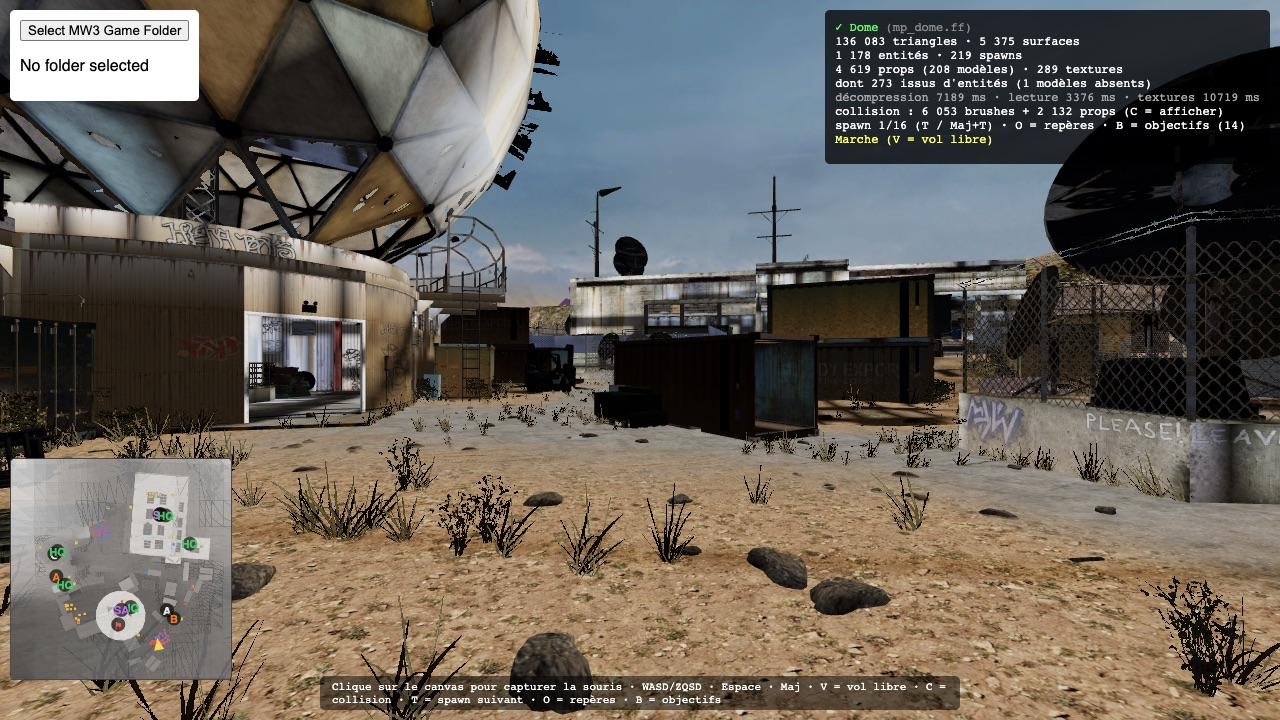
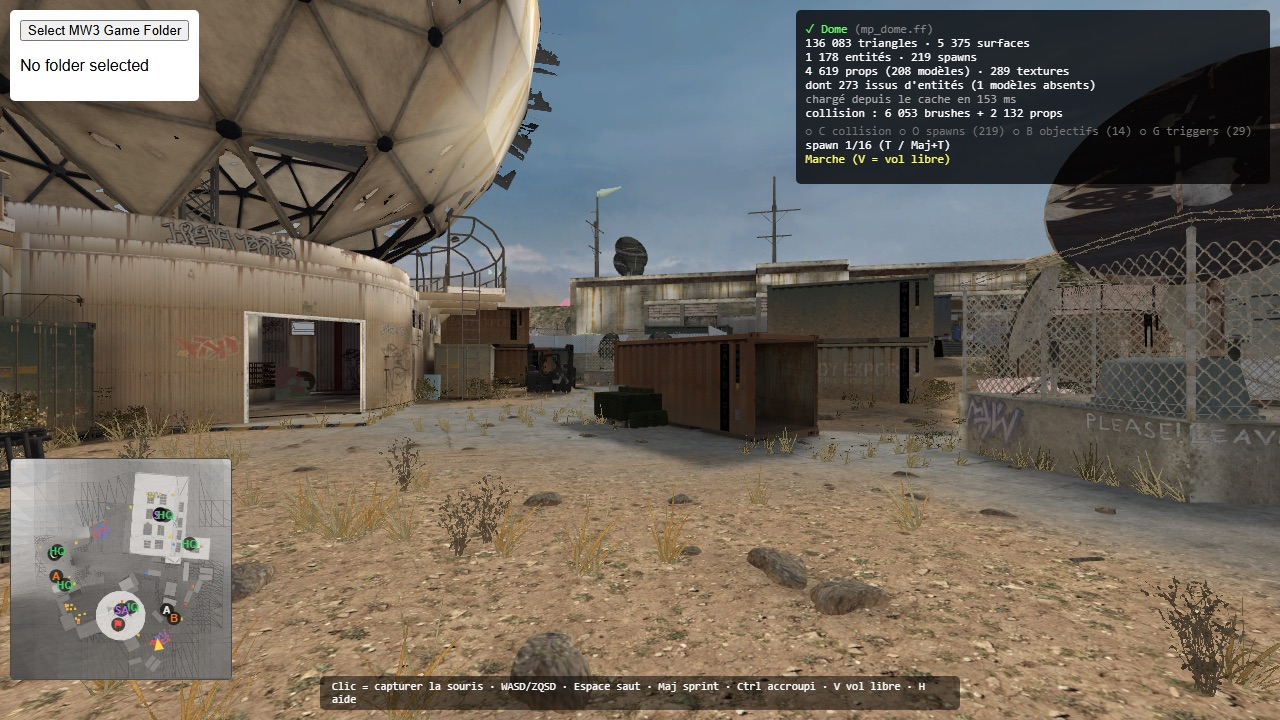
feat(lighting): shade world lightmaps with the engine formula
The IW5 secondary lightmap is two stacked halves (ambient + direction in
alpha) at half the primary's resolution; the old extraction sampled it over
its full height, so ambient came from the wrong part of the atlas. Follow the
decompiled IW4 lm_sun/lp_sun shaders: ambient (B*k + H)^2 plus primary * N.L
* sun color for the world, (2*probe)^2 + sun share for props. Drop R3F's ACES
tone mapping, which the engine does not have.

diff --git a/packages/iw5-core/src/zone/MapExtract.ts b/packages/iw5-core/src/zone/MapExtract.ts
@@ -387,43 +387,40 @@ export function extractSun(zone: LoadedZone): Sun | null {
   return { color: [l.color[0], l.color[1], l.color[2]], direction: [x / n, z / n, -y / n] }
 }
 
-const SKY_TINT = [0.85, 0.97, 1.18] // shadows are lit by the (cool) sky
-const SUN_TINT = [1.08, 1.0, 0.9] // sunlit areas are warm
-const SATURATION = 1.3
-
 /**
- * Combine each lightmap pair into one RGBA image.
- * primary (L8) holds the sun-shadow mask, secondary (A8R8G8B8, half width) the sky/bounce light.
- * The exact engine formula is not reproduced: this is a calibrated approximation, tinted
- * cool in the shadows and with the map's sun color in the light so the result is not greyscale.
+ * Each lightmap pair as one RGBA image at the primary's resolution, following the engine's lightmap shaders
+ * (IW4 `lm_sun_*`, same layout in IW5):
+ * - secondary (A8R8G8B8, half the primary's size) holds two stacked halves H (top) and B (bottom) with the same layout;
+ *   their alphas encode a 2D direction d = (H.a·4.08 − 2.08, B.a·4.0645 − 2.0645), k = 1/√(1 + |d|²);
+ *   ambient = (B.rgb·k + H.rgb)²
+ * - primary (L8) is the sun visibility; the shader adds primary × sat(N·L) × sun color.
+ * Output: rgb = (B.rgb·k + H.rgb) / 2 (the viewer squares 2·rgb), a = primary.
  */
-export function extractLightmaps(zone: LoadedZone, sun: Sun | null = extractSun(zone)): Lightmap[] {
+export function extractLightmaps(zone: LoadedZone): Lightmap[] {
   const gfx = zone.assets.find(a => a.typeName === 'GfxWorld')?.value
   const out: Lightmap[] = []
   const bytesOf = (img: any): Uint8Array | null => {
     const d = img?.texture?.loadDef?.data
     return d ? new Uint8Array(d.buffer, d.byteOffset, d.byteLength) : null
   }
-  const m = sun ? Math.max(...sun.color, 1e-3) : 1
-  const sc = sun ? sun.color.map(c => c / m) : [1, 1, 1]
   for (const lm of gfx?.draw?.lightmaps ?? []) {
     const prim = resolveVal(zone, lm.primary), sec = resolveVal(zone, lm.secondary)
     const pd = bytesOf(prim), sd = bytesOf(sec)
-    if (!pd || !sd) { out.push({ width: 1, height: 1, rgba: new Uint8Array([255, 255, 255, 255]) }); continue }
-    const w = prim.width, h = prim.height, sw = sec.width, sh = sec.height
+    if (!pd || !sd) { out.push({ width: 1, height: 1, rgba: new Uint8Array([128, 128, 128, 255]) }); continue }
+    const w = prim.width, h = prim.height, sw = sec.width, half = sec.height / 2
     const rgba = new Uint8Array(w * h * 4)
     for (let y = 0; y < h; y++) {
+      const sy = Math.min(half - 1, (y * half / h) | 0)
       for (let x = 0; x < w; x++) {
-        const sun01 = pd[y * w + x] / 255
-        const so = ((Math.min(sh - 1, (y * sh / h) | 0)) * sw + Math.min(sw - 1, (x * sw / w) | 0)) * 4
+        const sx = Math.min(sw - 1, (x * sw / w) | 0)
+        const t = (sy * sw + sx) * 4, b = ((sy + half) * sw + sx) * 4 // BGRA
+        const dx = sd[t + 3] / 255 * 4.08 - 2.08, dy = sd[b + 3] / 255 * 4.064516 - 2.064516
+        const k = Math.min(1, 1 / Math.sqrt(1 + dx * dx + dy * dy))
         const o = (y * w + x) * 4
-        const amb = [sd[so + 2], sd[so + 1], sd[so]]
-        let r = 0, g = 0, b = 0
-        const c = [0, 0, 0]
-        for (let k = 0; k < 3; k++) c[k] = 30 + amb[k] * 3.4 * SKY_TINT[k] + sun01 * 140 * sc[k] * SUN_TINT[k]
-        const lum = (c[0] + c[1] + c[2]) / 3
-        r = lum + (c[0] - lum) * SATURATION; g = lum + (c[1] - lum) * SATURATION; b = lum + (c[2] - lum) * SATURATION
-        rgba[o] = Math.max(0, Math.min(255, r)); rgba[o + 1] = Math.max(0, Math.min(255, g)); rgba[o + 2] = Math.max(0, Math.min(255, b)); rgba[o + 3] = 255
+        rgba[o] = (sd[b + 2] * k + sd[t + 2]) / 2
+        rgba[o + 1] = (sd[b + 1] * k + sd[t + 1]) / 2
+        rgba[o + 2] = (sd[b] * k + sd[t]) / 2
+        rgba[o + 3] = pd[y * w + x]
       }
     }
     out.push({ width: w, height: h, rgba })

diff --git a/packages/viewer/src/components/materials.ts b/packages/viewer/src/components/materials.ts
@@ -72,6 +72,28 @@ export function buildMaterials(world: Pick<MapWorld, 'materialImages' | 'materia
   return { map, textures: [...texCache.values(), ...normalCache.values()] }
 }
 
+/**
+ * The engine's lightmap shading (see extractLightmaps): ambient (2·rgb)² plus the sun where the primary (alpha)
+ * says it is visible, with the surface normal.
+ */
+function applyLightmapShading(mat: THREE.Material, sun: MapWorld['sun']) {
+  const dir = new THREE.Vector3(...(sun?.direction ?? [0.3, 0.8, 0.5])).normalize()
+  const color = new THREE.Vector3(...(sun?.color ?? [1, 1, 1]))
+  mat.onBeforeCompile = shader => {
+    shader.uniforms.uSunDir = { value: dir }
+    shader.uniforms.uSunColor = { value: color }
+    shader.vertexShader = shader.vertexShader
+      .replace('#include <common>', '#include <common>\nvarying vec3 vWorldNormal;')
+      .replace('#include <begin_vertex>', '#include <begin_vertex>\nvWorldNormal = normalize(mat3(modelMatrix) * normal);')
+    shader.fragmentShader = shader.fragmentShader
+      .replace('#include <common>', '#include <common>\nvarying vec3 vWorldNormal;\nuniform vec3 uSunDir;\nuniform vec3 uSunColor;')
+      .replace('reflectedLight.indirectDiffuse += lightMapTexel.rgb * lightMapIntensity * RECIPROCAL_PI;',
+        'reflectedLight.indirectDiffuse += 4.0 * lightMapTexel.rgb * lightMapTexel.rgb'
+        + ' + lightMapTexel.a * max(dot(normalize(vWorldNormal), uSunDir), 0.0) * uSunColor;')
+  }
+  mat.customProgramCacheKey = () => 'iw-lightmap'
+}
+
 /** World materials: lightmapped surfaces use an unlit material whose light comes from the lightmap atlas. */
 export function buildWorldMaterials(world: MapWorld): { list: THREE.Material[]; textures: THREE.Texture[] } {
   const lit = buildMaterials(world, world.groups.map(g => g.material))
@@ -95,11 +117,12 @@ export function buildWorldMaterials(world: MapWorld): { list: THREE.Material[]; 
       const src = base as THREE.MeshLambertMaterial
       mat = new THREE.MeshBasicMaterial({
         map: src.map, color: src.map ? 0xffffff : src.color,
-        ...(lm ? { lightMap: lm, lightMapIntensity: Math.PI } : {}),
+        ...(lm ? { lightMap: lm } : {}),
         alphaTest: g.decal ? 0.02 : src.alphaTest, side: src.side,
         // decals are blended over the surface below with the vertex alpha
         ...(g.decal ? { vertexColors: true, transparent: true, depthWrite: false, polygonOffset: true, polygonOffsetFactor: -2, polygonOffsetUnits: -2 } : {}),
       })
+      if (lm) applyLightmapShading(mat, world.sun)
       cache.set(key, mat)
     }
     return mat

diff --git a/packages/viewer/src/components/StaticModels.tsx b/packages/viewer/src/components/StaticModels.tsx
@@ -31,9 +31,6 @@ function makeMesh(geometry: THREE.BufferGeometry, groups: ModelGeometry['groups'
 const lightBuffer = (m: THREE.InstancedMesh) => (m.geometry.getAttribute('aLight0') as THREE.InterleavedBufferAttribute).data
 const lightOf = (m: THREE.InstancedMesh) => lightBuffer(m).array as Float32Array
 
-/** sun term gain (sun color as authored, ~1.2) and overall gain, calibrated against the lightmapped world */
-const SUN_GAIN = 0.55
-const PROP_GAIN = 1.0
 
 /**
  * Light props like the engine's model lighting: ambient cube from the light grid sample of each instance
@@ -41,7 +38,7 @@ const PROP_GAIN = 1.0
  */
 function applyGridLighting(mat: THREE.Material, sun: MapWorld['sun']) {
   const dir = new THREE.Vector3(...(sun?.direction ?? [0.3, 0.8, 0.5])).normalize()
-  const color = new THREE.Vector3(...(sun?.color ?? [1, 1, 1])).multiplyScalar(SUN_GAIN)
+  const color = new THREE.Vector3(...(sun?.color ?? [1, 1, 1]))
   mat.onBeforeCompile = shader => {
     shader.uniforms.uSunDir = { value: dir }
     shader.uniforms.uSunColor = { value: color }
@@ -57,7 +54,8 @@ function applyGridLighting(mat: THREE.Material, sun: MapWorld['sun']) {
         vec3 amb = n2.x * (wn.x > 0.0 ? vLight0.rgb : vLight1.rgb)
                  + n2.y * (wn.y > 0.0 ? vLight2.rgb : vLight3.rgb)
                  + n2.z * (wn.z > 0.0 ? vLight4.rgb : vLight5.rgb);
-        outgoingLight = diffuseColor.rgb * (amb + uSunColor * max(dot(wn, uSunDir), 0.0) * vLight0.w) * ${PROP_GAIN.toFixed(2)};
+        // engine (lp_*_sun shaders): (2·probe)² + sun × sat(N·L) × visible share
+        outgoingLight = diffuseColor.rgb * (4.0 * amb * amb + uSunColor * max(dot(wn, uSunDir), 0.0) * vLight0.w);
         #include <opaque_fragment>`)
   }
   mat.customProgramCacheKey = () => 'grid-lit'

diff --git a/packages/viewer/src/App.tsx b/packages/viewer/src/App.tsx
@@ -188,7 +188,7 @@ function App() {
 
   return (
     <div style={{ width: '100vw', height: '100vh', position: 'relative', overflow: 'hidden', background: '#0b0d10' }}>
-      <Canvas camera={{ position: [0, 3, 5], fov: 75, near: 0.05, far: 6000 }} style={{ width: '100%', height: '100%' }}>
+      <Canvas flat camera={{ position: [0, 3, 5], fov: 75, near: 0.05, far: 6000 }} style={{ width: '100%', height: '100%' }}>
         <color attach="background" args={['#9fb4c7']} />
         {world?.sky && <Sky sky={world.sky} />}
         <fog attach="fog" args={['#9fb4c7', 300, 2500]} />

diff --git a/packages/viewer/src/worker/mapWorker.ts b/packages/viewer/src/worker/mapWorker.ts
@@ -28,7 +28,7 @@ function buildGeometry(zone: LoadedZone, fileName: string, zoneBytes: number, ti
   const { batches: entityModels, missing: missingModels } = extractEntityModels(zone, entities)
   const staticModels = [...worldModels, ...entityModels]
   const sun = extractSun(zone)
-  const lightmaps = extractLightmaps(zone, sun)
+  const lightmaps = extractLightmaps(zone)
   const propLight = computePropLighting(zone.assets.find(a => a.typeName === 'GfxWorld')?.value?.lightGrid, staticModels)
 
   const spawns: SpawnPoint[] = []

diff --git a/packages/viewer/src/worker/cache.ts b/packages/viewer/src/worker/cache.ts
@@ -1,7 +1,7 @@
 // IndexedDB cache of decoded maps: a second load of the same .ff skips decompression, parsing and texture decoding.
 
 /** Bump whenever the extracted data changes shape or content. */
-export const CACHE_VERSION = 9
+export const CACHE_VERSION = 10
 
 const DB = 'mwthree-cache'
 const STORE = 'maps'

diff --git a/docs/04-rendu.md b/docs/04-rendu.md
@@ -26,7 +26,9 @@ Le ciel est la cube map `GfxWorld.skies[0].skyImage` (un `.iwi` contenant 6 face
 
 ### Lightmaps
 
-Le `GfxWorld` contient des atlas d'éclairage précalculé (`draw.lightmaps`) : un masque de lumière du soleil (`primary`, 1 octet/pixel) et une couleur de ciel/rebond (`secondary`, RGBA, moitié de largeur). Chaque sommet porte des coordonnées d'atlas (`lmapCoord`, décalées de 28 octets dans `GfxWorldVertex`) et chaque surface un `lightmapIndex`. Le soleil (`ComWorld.primaryLights`, dernière lumière de type soleil) fournit sa couleur et sa direction : les zones éclairées sont teintées avec la couleur du soleil, les ombres avec un ciel froid, et la saturation est légèrement augmentée pour éviter un rendu en niveaux de gris. Les props sont éclairés comme dans le moteur, par la **light grid** (`LightGrid.ts`, `computePropLighting`) : chaque instance échantillonne la grille au centre de ses bornes et reçoit un **cube ambiant** (6 couleurs, une par face du cube de 56 échantillons) plus la **part de soleil visible** ; le shader des props (`StaticModels.tsx`, `onBeforeCompile`) calcule `albédo × (ambiant(normale) + soleil × N·L × part)`. Un prop dans un bâtiment est donc sombre, un prop au soleil prend la lumière directe. Ils gardent leurs normal maps (le monde, lui, est éclairé par ses lightmaps : les normal maps n'y apportent rien sans les shaders d'origine). Les deux images sont combinées côté CPU en une seule texture RGBA (`extractLightmaps`) et appliquées en `lightMap` d'un `MeshBasicMaterial` (couleur = albedo × lumière). **La formule exacte du moteur n'est pas reproduite** : les gains sont calibrés à l'œil. Les surfaces sans lightmap (index 31) et les props restent éclairés par des lumières three.js classiques ; pas encore de normal maps ni de shaders d'origine.
+Le `GfxWorld` contient des atlas d'éclairage précalculé (`draw.lightmaps`) : un masque de visibilité du soleil (`primary`, L8, 1024×2048 sur `mp_dome`) et l'éclairage indirect (`secondary`, ARGB, 512×2048 = **deux moitiés empilées** de même disposition, à mi-résolution du primary). Chaque sommet porte des coordonnées d'atlas (`lmapCoord`, décalées de 28 octets dans `GfxWorldVertex`) et chaque surface un `lightmapIndex`. Le calcul suit les shaders du moteur (`lm_sun_*` d'IW4 décompilés, voir `RE_NOTES.md`) : `extractLightmaps` combine les deux moitiés H et B du secondary (`H.rgb + B.rgb·k`, `k` tiré d'une direction 2D codée dans leurs alphas) et range le primary dans l'alpha ; le shader des surfaces (`applyLightmapShading`, `materials.ts`) calcule `albédo × ((2·rgb)² + alpha × sat(N·L) × couleur du soleil)`. Le soleil (`ComWorld.primaryLights`, dernière lumière de type soleil) fournit sa couleur et sa direction. Pas de tone mapping (`<Canvas flat>`) : le moteur n'en a pas, et l'ACES par défaut de R3F délavait l'image.
+
+Les props sont éclairés comme dans le moteur, par la **light grid** (`LightGrid.ts`, `computePropLighting`) : chaque instance échantillonne la grille au centre de ses bornes et reçoit un **cube ambiant** (6 couleurs, une par face du cube de 56 échantillons) plus la **part de soleil visible** ; le shader des props (`StaticModels.tsx`, `onBeforeCompile`) calcule, comme les shaders `lp_*_sun`, `albédo × ((2·ambiant(normale))² + soleil × sat(N·L) × part)`. Un prop dans un bâtiment est donc sombre, un prop au soleil prend la lumière directe. Ils gardent leurs normal maps. Les surfaces sans lightmap (index 31) restent éclairées par des lumières three.js classiques. Non reproduits : brouillard du moteur, specular, multiplication de l'albédo par la couleur de sommet, ombres dynamiques.
 
 ![Props éclairés par la light grid : herbes et rochers au soleil, intérieurs sombres](images/screens/dome-props-lighting.jpg)
 

diff --git a/docs/SESSION_REFERENCE.md b/docs/SESSION_REFERENCE.md
@@ -9,7 +9,7 @@
 | 2 — Zone loader (assets, pointeurs, blocs) | ✓ — les 16 maps `mp_*` de `inputs/zone/` se chargent à l'octet près |
 | 3 — Collision + déplacement FPS | ✓ — brushes `clipMap_t` solides/playerclip → enveloppes convexes → un trimesh Rapier (+ triangles de terrain) ; marche, saut, vol libre, **C** affiche la collision. Reste : collision des modèles statiques |
 | 4 — Géométrie visuelle | ✓ — surfaces BSP du `GfxWorld` + modèles statiques et props d'entités (`script_model`, état intact) instanciés (`smodelDrawInsts` → `XModel` LOD0), couleur par matériau. Manquent : LOD, collision des props |
-| 5 — Textures `.iwd` / `.iwi` | ✓ — color maps des matériaux (DXT1/3/5, ARGB, RGB, A8) lues dans `main/*.iwd`, appliquées au monde et aux props ; alpha-test pour le feuillage. Lightmaps du monde appliquées (approximation). Props éclairés par la light grid. Manquent : spec maps, shaders d'origine |
+| 5 — Textures `.iwd` / `.iwi` | ✓ — color maps des matériaux (DXT1/3/5, ARGB, RGB, A8) lues dans `main/*.iwd`, appliquées au monde et aux props ; alpha-test pour le feuillage. Lightmaps du monde appliquées (formule du moteur). Props éclairés par la light grid. Manquent : spec maps, shaders d'origine |
 | 6 — Entités / UX | ✓ — noms de maps, téléportation entre spawns, repères de spawns, objectifs des modes de jeu, mini-carte |
 
 ## Lancer
@@ -67,7 +67,7 @@ scripts/                           genSchema.mjs, loadZone.mts (outils de vérif
 
 ## Prochaines étapes
 
-1. **Éclairage** : props éclairés par la light grid (fait). Reste : formule exacte des lightmaps du monde (gains à l'œil), gains du shader des props (`SUN_GAIN`, `PROP_GAIN` dans `StaticModels.tsx`) à caler sur des captures du jeu, traces `needsTrace` ignorées, specular (shaders d'origine).
+1. **Éclairage** : lightmaps du monde et props suivent maintenant les formules des shaders du moteur (voir `RE_NOTES.md`). Reste : brouillard, specular/normal maps du monde (shaders d'origine), couleur de sommet × albédo, traces `needsTrace` de la light grid, ombres dynamiques des props.
 2. **Performance du rendu** : LOD 0/1 des props en place (−37 % de triangles sur `mp_dome`) ; pistes suivantes : LOD 2+, culling par cellule (`GfxWorld.cells`/portails) si le framerate devient un problème.
 3. **Premier chargement** (≈ 11 s au total sur `mp_dome` en dev, dont ≈ 6 s de textures) : décodage paresseux des structs, ciel en cube map GPU au lieu de la conversion équirectangulaire (≈ 1,5 s). Le cache IndexedDB couvre les rechargements.
 

diff --git a/docs/RE_NOTES.md b/docs/RE_NOTES.md
@@ -96,6 +96,21 @@ chaînes-constantes du moteur. Identifiés par les valeurs : `1668 classname`, `
 - Repère jeu : Z vers le haut, unités = pouces. Scène : `(x, z, −y) × 0.0254` (mètres, Y vers le haut).
 - `GfxWorld` fait 640 octets ; le premier mot (`name`) est typiquement une **référence** vers une chaîne déjà chargée.
 
+### Lightmaps (`GfxWorld.draw.lightmaps`)
+
+Formule tirée des pixel shaders IW4 décompilés (dépôt `iw4x-community/dexilifier`, `HLSL/ps/lm_sun_fog_r0c0_sm3.hlsl`) :
+```
+H = secondary(u, v/2)          B = secondary(u, v/2 + 0.5)        // deux moitiés empilées
+d = (H.a·4.08 − 2.08, B.a·4.064516 − 2.064516) ; k = saturate(1/√(1 + d·d))
+lumière = (B.rgb·k + H.rgb)² + primary(u, v) × saturate(N·sunDir) × sunColor
+couleur = (colorMap × couleurSommet)² × lumière                // gamma 2 : le moteur linéarise par le carré
+```
+IW5 (`mp_dome`) : primary 1024×2048 L8, secondary 512×2048 ARGB ; la disposition du primary = celle d'une moitié du secondary
+agrandie ×2 (vérifié visuellement : mêmes charts, bloc vide au même endroit relatif). L'ancienne extraction échantillonnait le
+secondary sur toute sa hauteur : l'ambiant venait d'une autre zone de l'atlas (fausses « taches de soleil » en intérieur).
+Les props (shaders `lp_*_sun`) : `(2·texel)² + saturate(N·sunDir) × sunColor × texel.w`, texel = texture 3D 4×4×4 de la light grid
+lue sur la surface du cube (`n / max|n|`), `w` = part de soleil visible.
+
 ### Light grid (`GfxWorld.lightGrid`) — décodé et utilisé pour les props
 
 Sondes de lumière du moteur pour les modèles. La logique de lookup est reprise du renderer IW3 décompilé
